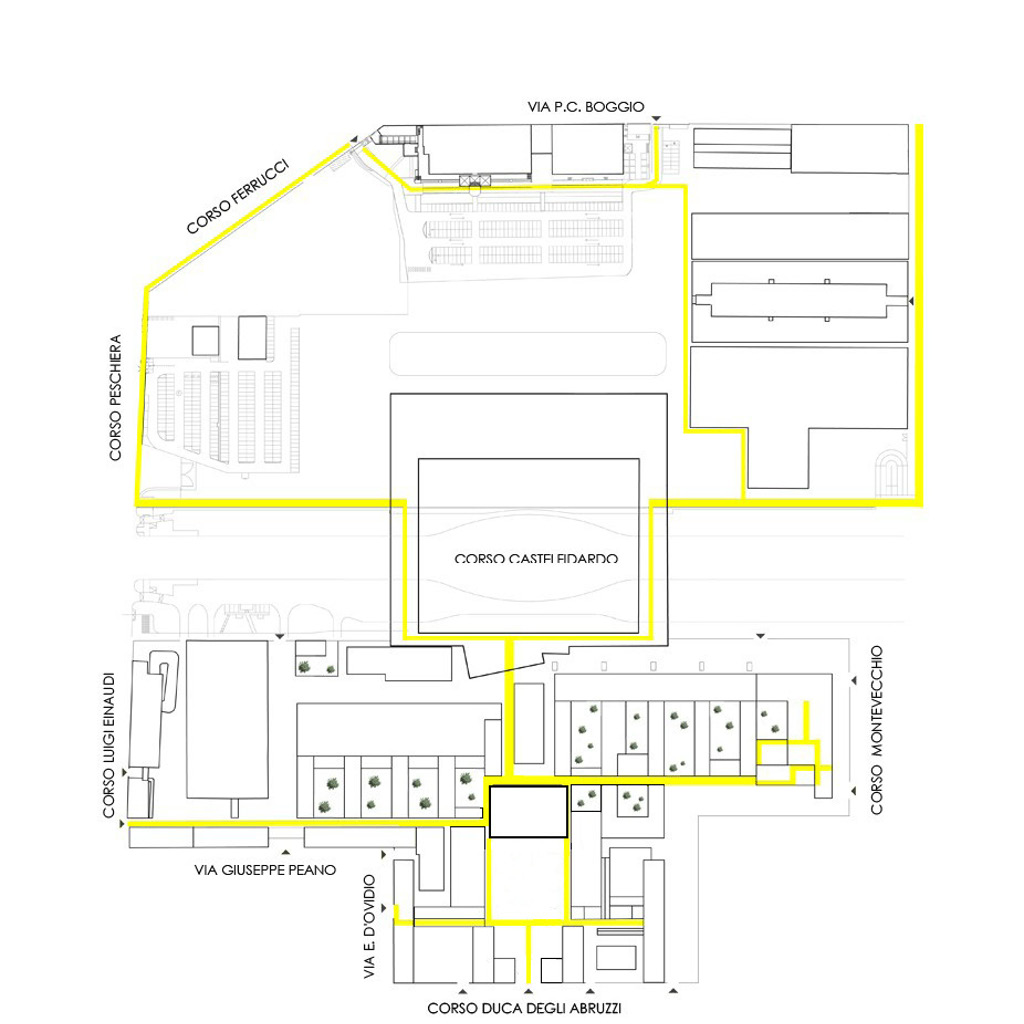
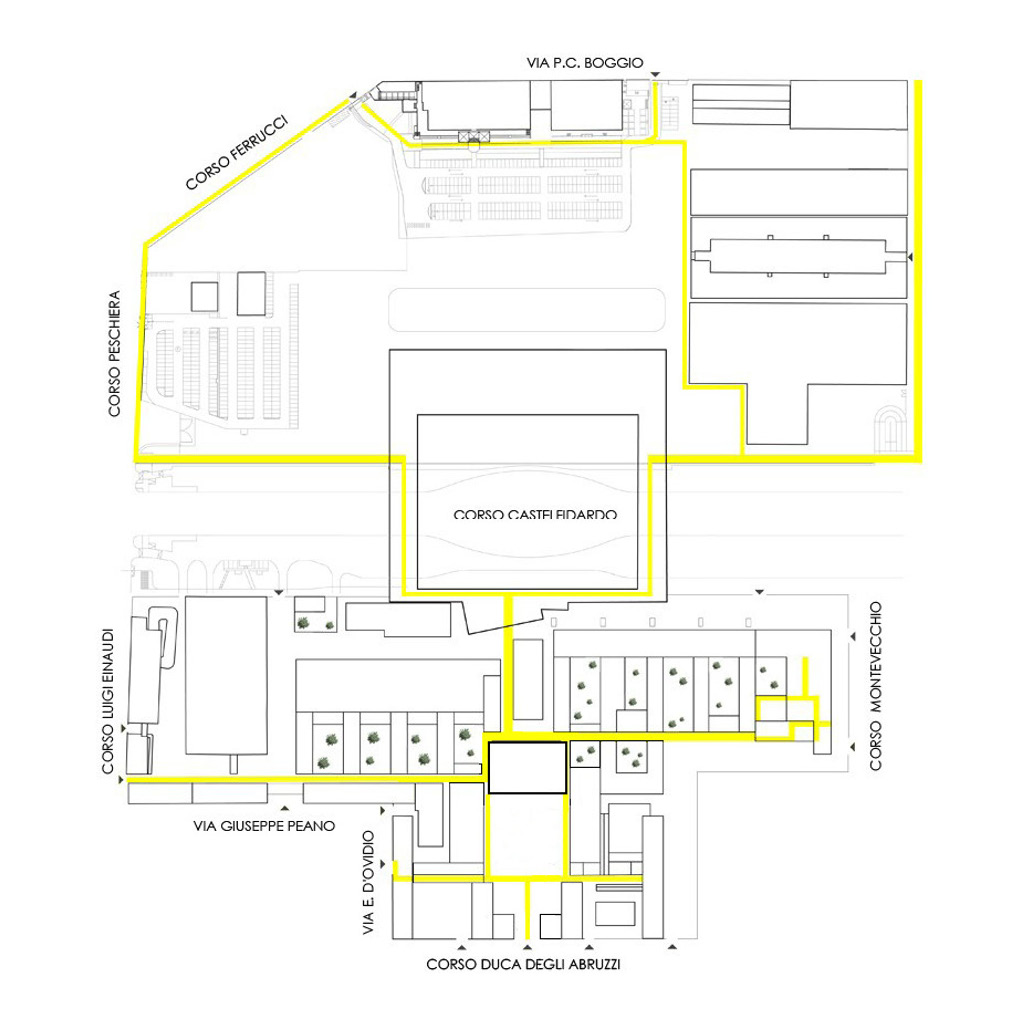
localizzazione aule completata

Changed region(s): [[0.0938, 0.0312, 0.9062, 1.0], [0.5938, 0.2188, 0.625, 0.25]]

diff --git a/JobPlacement/app/src/main/java/com/example/giuliagigi/jobplacement/RoomMapFragment.java b/JobPlacement/app/src/main/java/com/example/giuliagigi/jobplacement/RoomMapFragment.java
@@ -16,6 +16,7 @@ import com.threed.jpct.FrameBuffer;
 import com.threed.jpct.Object3D;
 import com.threed.jpct.Primitives;
 import com.threed.jpct.RGBColor;
+import com.threed.jpct.SimpleVector;
 import com.threed.jpct.Texture;
 import com.threed.jpct.TextureManager;
 import com.threed.jpct.World;
@@ -40,7 +41,7 @@ public class RoomMapFragment extends Fragment implements GLSurfaceView.Renderer,
     /* these two object must be manipulated only in the background thread */
     private World world;
     private FrameBuffer frameBuffer;
-    private Object3D mapPlane;
+    private Object3D mapPlane, roomMarker;
     float lastX,lastY, lastSpan;
     boolean isScaling = false;
 
@@ -114,9 +115,7 @@ public class RoomMapFragment extends Fragment implements GLSurfaceView.Renderer,
 
         world = new World();
 
-        mapPlane = Primitives.getPlane(1,3.0f);
         InputStream in = null;
-
         try {
             in = GlobalData.getAssetManager().open("polito_map.jpg");
         }
@@ -125,17 +124,37 @@ public class RoomMapFragment extends Fragment implements GLSurfaceView.Renderer,
             e.printStackTrace();
         }
 
+        /* -------- creating textures ------------------------- */
         Texture mapTexture = null;
         if(in != null)  mapTexture = new Texture(in);
         else            mapTexture = new Texture(1024,1024, RGBColor.RED);
 
-        TextureManager.getInstance().addTexture("mapTexture", mapTexture);
+        if(!TextureManager.getInstance().containsTexture("mapTexture"))
+            TextureManager.getInstance().addTexture("mapTexture", mapTexture);
+
+        Texture markerTexture = new Texture(64,64,RGBColor.RED);
+        if(!TextureManager.getInstance().containsTexture("markerTexture"))
+            TextureManager.getInstance().addTexture("markerTexture",markerTexture);
+
+        /* -------- creating objects ------------------------- */
+        mapPlane = Primitives.getPlane(1, 1);
         mapPlane.setTexture("mapTexture");
+        roomMarker = Primitives.getSphere(1);
+        roomMarker.setTexture("markerTexture");
+
+        roomMarker.setCenter(new SimpleVector(mapPlane.getCenter().x,mapPlane.getCenter().y,mapPlane.getCenter().z));
+        float dx = (room.getXCoordinate() - 0.5f);
+        float dy = (room.getYCoordinate() - 0.5f);
+        roomMarker.translate(dx,dy,0);
+        mapPlane.addChild(roomMarker);
+
         mapPlane.translate(2.5f, 0, 10);
         mapPlane.scale(10);
+        roomMarker.scale(0.0033f);
 
         world.setAmbientLight(255,255,255);
         world.addObject(mapPlane);
+        world.addObject(roomMarker);
     }
 
     @Override
@@ -163,38 +182,6 @@ public class RoomMapFragment extends Fragment implements GLSurfaceView.Renderer,
 
     @Override
     public boolean onTouch(View v, MotionEvent event) {
-
-//        switch (event.getAction()){
-//
-//            case MotionEvent.ACTION_DOWN:
-//
-//                lastX = event.getX();
-//                lastY= event.getY();
-//
-//                return true;
-//
-//            case MotionEvent.ACTION_MOVE:
-//
-//                final float dx = event.getX() - lastX;
-//                final float dy = event.getY() - lastY;
-//
-//                lastX = event.getX();
-//                lastY = event.getY();
-//
-//                /* we cannot manipulate 3D objects in the UI thread, so we enqueue a runnable
-//                * for the surface view*/
-//                surfaceView.queueEvent(new Runnable() {
-//                    @Override
-//                    public void run() {
-//
-//                        mapPlane.translate(dx*0.01f,dy*0.01f,0);
-//                    }
-//                });
-//
-//                return true;
-//
-//            default: return true;
-//        }
 
         scaleGestureDetector.onTouchEvent(event);
         gestureDetector.onTouchEvent(event);

diff --git a/JobPlacement/app/src/main/java/com/example/giuliagigi/jobplacement/RoomsFileReader.java b/JobPlacement/app/src/main/java/com/example/giuliagigi/jobplacement/RoomsFileReader.java
@@ -23,6 +23,8 @@ public class RoomsFileReader {
     public static final String ROOM_START_MINUTE_FIELD = "startMinute";
     public static final String ROOM_END_HOUR_FIELD = "endHour";
     public static final String ROOM_END_MINUTE_FIELD = "endMinute";
+    public static final String ROOM_X_FIELD = "xCoordinate";
+    public static final String ROOM_Y_FIELD = "yCoordinate";
 
     private HashMap<String,Room> rooms;
     private ArrayList<String> roomNames;
@@ -86,19 +88,6 @@ public class RoomsFileReader {
             e.printStackTrace();
         }
 
-        for(Room r: rooms.values()){
-
-            Log.println(Log.ASSERT, "ROOMSFILEREAD", "room: ");
-            Log.println(Log.ASSERT, "ROOMSFILEREAD", "      name: " + r.getName());
-            Log.println(Log.ASSERT, "ROOMSFILEREAD", "      floor: " + r.getFloor());
-            Log.println(Log.ASSERT, "ROOMSFILEREAD", "      building: " + r.getBuilding());
-
-            Schedule s = r.getTime();
-            if(s != null){
-
-                Log.println(Log.ASSERT, "ROOMSFILEREAD", "      schedule: " + s.getStartHour() + ":" + s.getStartMinute() + "-" + s.getEndHour() + ":" + s.getEndMinute());
-            }
-        }
     }
 
     private Room readRoom(JsonReader reader) throws IOException{
@@ -119,6 +108,8 @@ public class RoomsFileReader {
             else if(courseField.equals(ROOM_START_MINUTE_FIELD))startMinute = reader.nextInt();
             else if(courseField.equals(ROOM_END_HOUR_FIELD))    endHour = reader.nextInt();
             else if(courseField.equals(ROOM_END_MINUTE_FIELD))  endMinute = reader.nextInt();
+            else if(courseField.equals(ROOM_X_FIELD))           r.setXCoordinate((float)reader.nextDouble());
+            else if(courseField.equals(ROOM_Y_FIELD))           r.setYCoordinate((float)reader.nextDouble());
             else {
 
                 reader.skipValue();

diff --git a/JobPlacement/app/src/main/java/com/example/giuliagigi/jobplacement/Room.java b/JobPlacement/app/src/main/java/com/example/giuliagigi/jobplacement/Room.java
@@ -9,8 +9,8 @@ public class Room {
     private Schedule time;
     private int floor;
     private String building;
-    //TODO: coordinate
-
+    private float xCoordinate;
+    private float yCoordinate;
 
     public Room() {}
 
@@ -44,5 +44,21 @@ public class Room {
 
     public void setBuilding(String building) {
         this.building = building;
+    }
+
+    public float getXCoordinate() {
+        return xCoordinate;
+    }
+
+    public void setXCoordinate(float xCoordinate) {
+        this.xCoordinate = xCoordinate;
+    }
+
+    public float getYCoordinate() {
+        return yCoordinate;
+    }
+
+    public void setYCoordinate(float yCoordinate) {
+        this.yCoordinate = yCoordinate;
     }
 }
